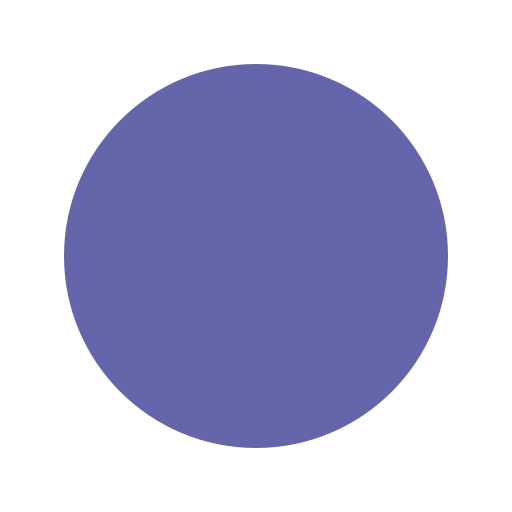
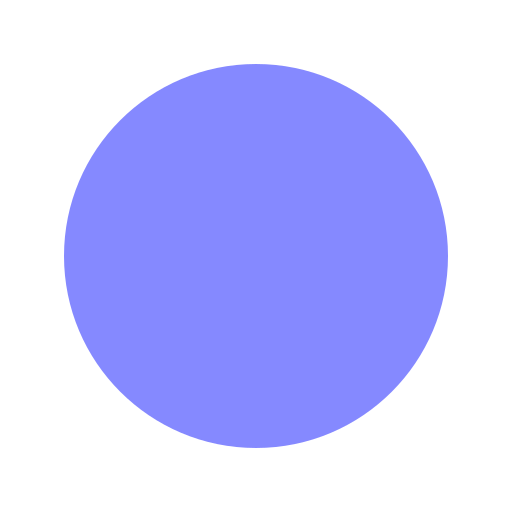
update web manifest

diff --git a/nuxt.config.js b/nuxt.config.js
@@ -15,7 +15,10 @@ export default {
     meta: [
       { charset: 'utf-8' },
       { name: 'viewport', content: 'width=device-width, initial-scale=1, viewport-fit=cover' },
-      { name: 'msapplication-TileColor', content: '#6565ac' },
+      { name: 'apple-mobile-web-app-title', content: 'MISKOLCZY' },
+      { name: 'mobile-web-app-capable', content: 'yes' },
+      { name: 'apple-mobile-web-app-capable', content: 'yes' },
+      { name: 'apple-mobile-web-app-status-bar-style', content: 'black' },
       { name: 'theme-color', content: '#000000' },
       { hid: 'author', name: 'author', content: 'Jonathan Miskolczy' },
       { hid: 'description', name: 'description', content: 'Hello, my name is Jonathan Miskolczy. I am a former Bachelor of Arts student at the FHNW HGK in Basel, Switzerland. I have studied visual communication with deeper focus on typography.' },
@@ -33,8 +36,7 @@ export default {
       { rel: 'apple-touch-icon', sizes: '180x180', href: '/apple-touch-icon.png' },
       { rel: 'icon', sizes: '32x32', href: '/favicon-32x32.png' },
       { rel: 'icon', sizes: '16x16', href: '/favicon-16x16.png' },
-      { rel: 'manifest', href: '/safari-pinned-tab.svg', color: '#6565ac' },
-      { rel: 'mask-icon', href: '/site.webmanifest' }
+      { rel: 'manifest', href: '/site.webmanifest' }
     ]
   },
 

diff --git a/assets/scss/main.scss b/assets/scss/main.scss
@@ -7,8 +7,6 @@
   --color-primary: #e6e6fa;
   /*--color-secondary: #6565ac;*/
 
-
-  --color-accent: rgba(82, 88, 250, 1);
   --color-accent: #8589ff;
 
   --text-blendmode: difference;
